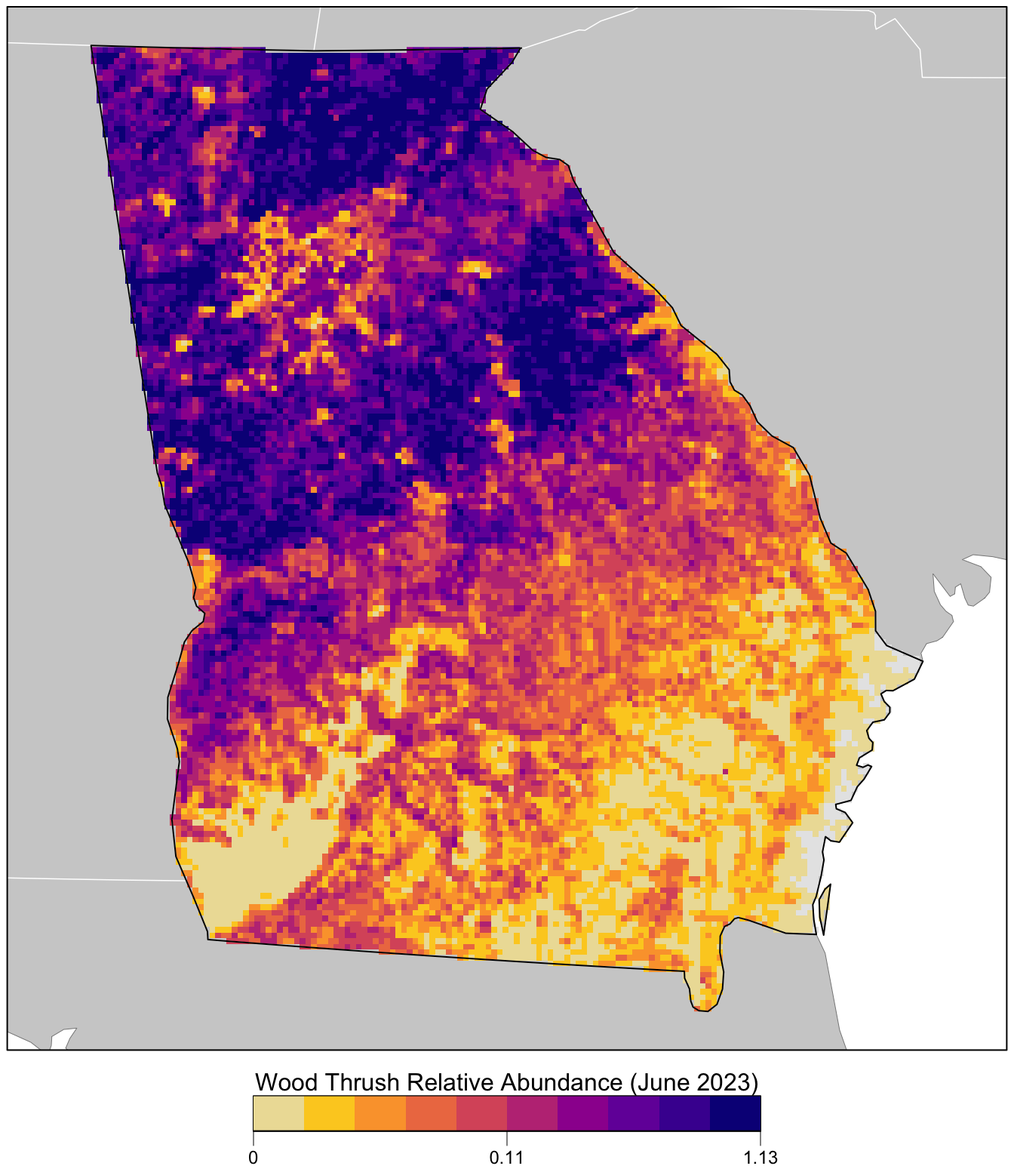
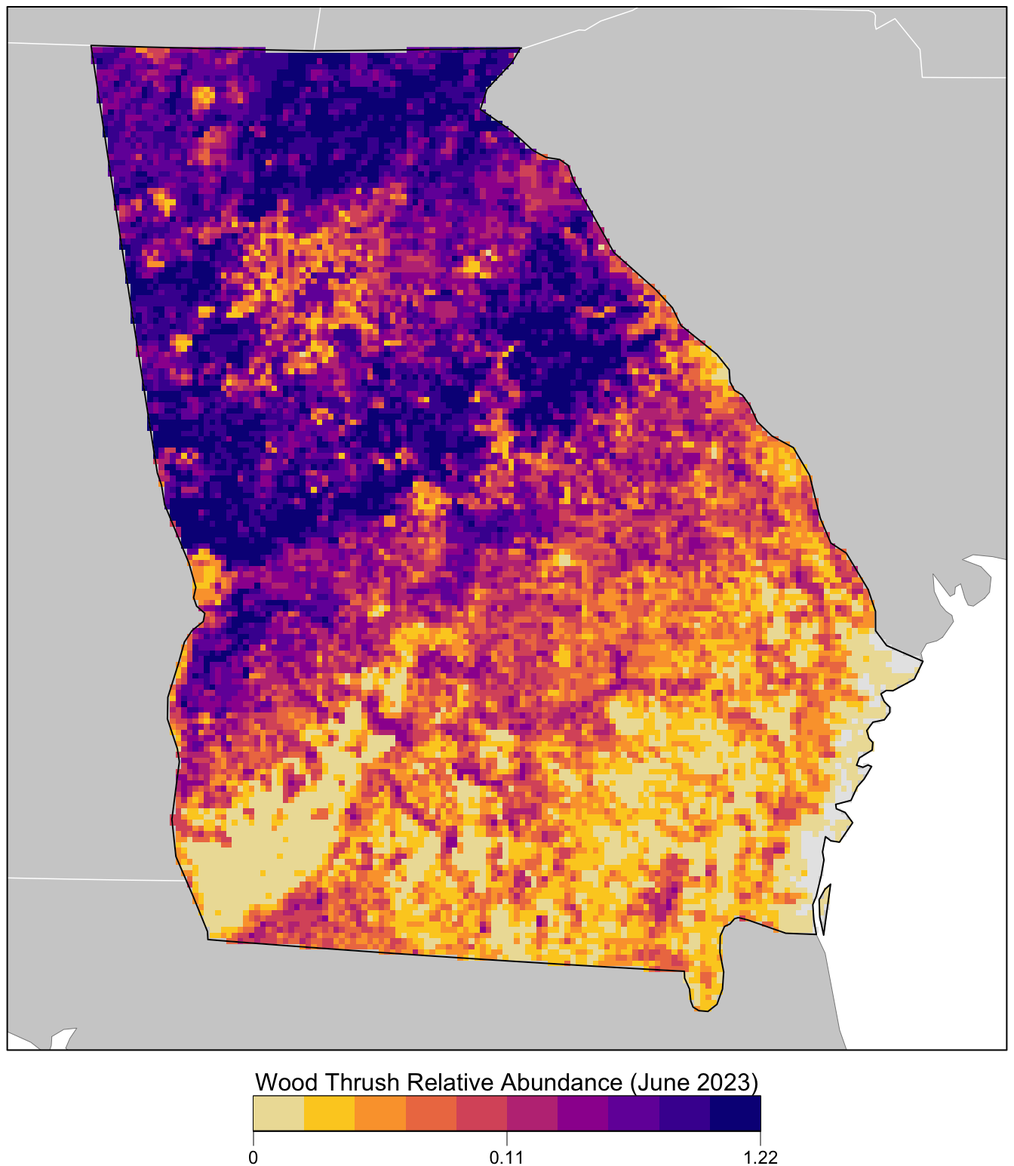
don't use `pi` as a variable name

Changed region(s): [[0.0938, 0.0311, 0.875, 0.8699], [0.75, 0.9942, 0.7812, 1.0]]

diff --git a/docs/encounter.html b/docs/encounter.html
@@ -395,14 +395,14 @@ Solution
 <span id="cb4-11"><a href="#cb4-11" aria-hidden="true" tabindex="-1"></a></span>
 <span id="cb4-12"><a href="#cb4-12" aria-hidden="true" tabindex="-1"></a><span class="co"># after sampling</span></span>
 <span id="cb4-13"><a href="#cb4-13" aria-hidden="true" tabindex="-1"></a><span class="fu">nrow</span>(checklists_ss)</span>
-<span id="cb4-14"><a href="#cb4-14" aria-hidden="true" tabindex="-1"></a><span class="co">#&gt; [1] 20707</span></span>
+<span id="cb4-14"><a href="#cb4-14" aria-hidden="true" tabindex="-1"></a><span class="co">#&gt; [1] 20642</span></span>
 <span id="cb4-15"><a href="#cb4-15" aria-hidden="true" tabindex="-1"></a><span class="fu">count</span>(checklists_ss, species_observed) <span class="sc">|&gt;</span> </span>
 <span id="cb4-16"><a href="#cb4-16" aria-hidden="true" tabindex="-1"></a>  <span class="fu">mutate</span>(<span class="at">percent =</span> n <span class="sc">/</span> <span class="fu">sum</span>(n))</span>
 <span id="cb4-17"><a href="#cb4-17" aria-hidden="true" tabindex="-1"></a><span class="co">#&gt; # A tibble: 2 × 3</span></span>
 <span id="cb4-18"><a href="#cb4-18" aria-hidden="true" tabindex="-1"></a><span class="co">#&gt;   species_observed     n percent</span></span>
 <span id="cb4-19"><a href="#cb4-19" aria-hidden="true" tabindex="-1"></a><span class="co">#&gt;   &lt;lgl&gt;            &lt;int&gt;   &lt;dbl&gt;</span></span>
-<span id="cb4-20"><a href="#cb4-20" aria-hidden="true" tabindex="-1"></a><span class="co">#&gt; 1 FALSE            17808   0.860</span></span>
-<span id="cb4-21"><a href="#cb4-21" aria-hidden="true" tabindex="-1"></a><span class="co">#&gt; 2 TRUE              2899   0.140</span></span></code><button title="Copy to Clipboard" class="code-copy-button"><i class="bi"></i></button></pre></div>
+<span id="cb4-20"><a href="#cb4-20" aria-hidden="true" tabindex="-1"></a><span class="co">#&gt; 1 FALSE            17744   0.860</span></span>
+<span id="cb4-21"><a href="#cb4-21" aria-hidden="true" tabindex="-1"></a><span class="co">#&gt; 2 TRUE              2898   0.140</span></span></code><button title="Copy to Clipboard" class="code-copy-button"><i class="bi"></i></button></pre></div>
 </div>
 </div>
 </div>
@@ -570,7 +570,7 @@ Solution
 <span id="cb11-8"><a href="#cb11-8" aria-hidden="true" tabindex="-1"></a><span class="co"># identify best threshold</span></span>
 <span id="cb11-9"><a href="#cb11-9" aria-hidden="true" tabindex="-1"></a>mcc_f1_summary <span class="ot">&lt;-</span> <span class="fu">summary</span>(mcc_f1)</span>
 <span id="cb11-10"><a href="#cb11-10" aria-hidden="true" tabindex="-1"></a><span class="co">#&gt;  mccf1_metric best_threshold</span></span>
-<span id="cb11-11"><a href="#cb11-11" aria-hidden="true" tabindex="-1"></a><span class="co">#&gt;          0.39          0.526</span></span>
+<span id="cb11-11"><a href="#cb11-11" aria-hidden="true" tabindex="-1"></a><span class="co">#&gt;         0.399          0.508</span></span>
 <span id="cb11-12"><a href="#cb11-12" aria-hidden="true" tabindex="-1"></a>threshold <span class="ot">&lt;-</span> mcc_f1_summary<span class="sc">$</span>best_threshold[<span class="dv">1</span>]</span></code><button title="Copy to Clipboard" class="code-copy-button"><i class="bi"></i></button></pre></div>
 </div>
 <div class="callout callout-style-default callout-tip callout-titled">
@@ -658,27 +658,27 @@ Tip
 <tbody>
 <tr class="odd">
 <td style="text-align: left;">mse</td>
-<td style="text-align: right;">0.084</td>
+<td style="text-align: right;">0.086</td>
 </tr>
 <tr class="even">
 <td style="text-align: left;">sensitivity</td>
-<td style="text-align: right;">0.673</td>
+<td style="text-align: right;">0.700</td>
 </tr>
 <tr class="odd">
 <td style="text-align: left;">specificity</td>
-<td style="text-align: right;">0.825</td>
+<td style="text-align: right;">0.804</td>
 </tr>
 <tr class="even">
 <td style="text-align: left;">pr_auc</td>
-<td style="text-align: right;">0.296</td>
+<td style="text-align: right;">0.291</td>
 </tr>
 <tr class="odd">
 <td style="text-align: left;">mcc</td>
-<td style="text-align: right;">0.385</td>
+<td style="text-align: right;">0.380</td>
 </tr>
 <tr class="even">
 <td style="text-align: left;">f1</td>
-<td style="text-align: right;">0.461</td>
+<td style="text-align: right;">0.454</td>
 </tr>
 </tbody>
 </table>
@@ -695,21 +695,22 @@ Tip
 <p>During the process of training a random forests model, some variables are removed at each node of the trees that make up the random forests. <strong>Predictor importance</strong> is based on the mean decrease in accuracy of the model when a given predictor is not used. It’s technically an average <a href="https://en.wikipedia.org/wiki/Gini_coefficient">Gini index</a>, but essentially larger values indicate that a predictor is more important to the model.</p>
 <div class="cell" data-layout-align="center">
 <div class="sourceCode cell-code" id="cb13"><pre class="sourceCode r code-with-copy"><code class="sourceCode r"><span id="cb13-1"><a href="#cb13-1" aria-hidden="true" tabindex="-1"></a><span class="co"># extract predictor importance from the random forest model object</span></span>
-<span id="cb13-2"><a href="#cb13-2" aria-hidden="true" tabindex="-1"></a>pi <span class="ot">&lt;-</span> er_model<span class="sc">$</span>variable.importance</span>
-<span id="cb13-3"><a href="#cb13-3" aria-hidden="true" tabindex="-1"></a>pi <span class="ot">&lt;-</span> <span class="fu">data.frame</span>(<span class="at">predictor =</span> <span class="fu">names</span>(pi), <span class="at">importance =</span> pi) <span class="sc">|&gt;</span> </span>
-<span id="cb13-4"><a href="#cb13-4" aria-hidden="true" tabindex="-1"></a>  <span class="fu">arrange</span>(<span class="fu">desc</span>(importance))</span>
-<span id="cb13-5"><a href="#cb13-5" aria-hidden="true" tabindex="-1"></a><span class="co"># plot importance of top 20 predictors</span></span>
-<span id="cb13-6"><a href="#cb13-6" aria-hidden="true" tabindex="-1"></a><span class="fu">ggplot</span>(<span class="fu">head</span>(pi, <span class="dv">20</span>)) <span class="sc">+</span> </span>
-<span id="cb13-7"><a href="#cb13-7" aria-hidden="true" tabindex="-1"></a>  <span class="fu">aes</span>(<span class="at">x =</span> <span class="fu">reorder</span>(predictor, importance), <span class="at">y =</span> importance) <span class="sc">+</span></span>
-<span id="cb13-8"><a href="#cb13-8" aria-hidden="true" tabindex="-1"></a>  <span class="fu">geom_col</span>() <span class="sc">+</span></span>
-<span id="cb13-9"><a href="#cb13-9" aria-hidden="true" tabindex="-1"></a>  <span class="fu">geom_hline</span>(<span class="at">yintercept =</span> <span class="dv">0</span>, <span class="at">linewidth =</span> <span class="dv">2</span>, <span class="at">colour =</span> <span class="st">"#555555"</span>) <span class="sc">+</span></span>
-<span id="cb13-10"><a href="#cb13-10" aria-hidden="true" tabindex="-1"></a>  <span class="fu">scale_y_continuous</span>(<span class="at">expand =</span> <span class="fu">c</span>(<span class="dv">0</span>, <span class="dv">0</span>)) <span class="sc">+</span></span>
-<span id="cb13-11"><a href="#cb13-11" aria-hidden="true" tabindex="-1"></a>  <span class="fu">coord_flip</span>() <span class="sc">+</span></span>
-<span id="cb13-12"><a href="#cb13-12" aria-hidden="true" tabindex="-1"></a>  <span class="fu">labs</span>(<span class="at">x =</span> <span class="cn">NULL</span>, </span>
-<span id="cb13-13"><a href="#cb13-13" aria-hidden="true" tabindex="-1"></a>       <span class="at">y =</span> <span class="st">"Predictor Importance (Gini Index)"</span>) <span class="sc">+</span></span>
-<span id="cb13-14"><a href="#cb13-14" aria-hidden="true" tabindex="-1"></a>  <span class="fu">theme_minimal</span>() <span class="sc">+</span></span>
-<span id="cb13-15"><a href="#cb13-15" aria-hidden="true" tabindex="-1"></a>  <span class="fu">theme</span>(<span class="at">panel.grid =</span> <span class="fu">element_blank</span>(),</span>
-<span id="cb13-16"><a href="#cb13-16" aria-hidden="true" tabindex="-1"></a>        <span class="at">panel.grid.major.x =</span> <span class="fu">element_line</span>(<span class="at">colour =</span> <span class="st">"#cccccc"</span>, <span class="at">linewidth =</span> <span class="fl">0.5</span>))</span></code><button title="Copy to Clipboard" class="code-copy-button"><i class="bi"></i></button></pre></div>
+<span id="cb13-2"><a href="#cb13-2" aria-hidden="true" tabindex="-1"></a>pred_imp <span class="ot">&lt;-</span> er_model<span class="sc">$</span>variable.importance</span>
+<span id="cb13-3"><a href="#cb13-3" aria-hidden="true" tabindex="-1"></a>pred_imp <span class="ot">&lt;-</span> <span class="fu">data.frame</span>(<span class="at">predictor =</span> <span class="fu">names</span>(pred_imp), </span>
+<span id="cb13-4"><a href="#cb13-4" aria-hidden="true" tabindex="-1"></a>                       <span class="at">importance =</span> pred_imp) <span class="sc">|&gt;</span> </span>
+<span id="cb13-5"><a href="#cb13-5" aria-hidden="true" tabindex="-1"></a>  <span class="fu">arrange</span>(<span class="fu">desc</span>(importance))</span>
+<span id="cb13-6"><a href="#cb13-6" aria-hidden="true" tabindex="-1"></a><span class="co"># plot importance of top 20 predictors</span></span>
+<span id="cb13-7"><a href="#cb13-7" aria-hidden="true" tabindex="-1"></a><span class="fu">ggplot</span>(<span class="fu">head</span>(pred_imp, <span class="dv">20</span>)) <span class="sc">+</span> </span>
+<span id="cb13-8"><a href="#cb13-8" aria-hidden="true" tabindex="-1"></a>  <span class="fu">aes</span>(<span class="at">x =</span> <span class="fu">reorder</span>(predictor, importance), <span class="at">y =</span> importance) <span class="sc">+</span></span>
+<span id="cb13-9"><a href="#cb13-9" aria-hidden="true" tabindex="-1"></a>  <span class="fu">geom_col</span>() <span class="sc">+</span></span>
+<span id="cb13-10"><a href="#cb13-10" aria-hidden="true" tabindex="-1"></a>  <span class="fu">geom_hline</span>(<span class="at">yintercept =</span> <span class="dv">0</span>, <span class="at">linewidth =</span> <span class="dv">2</span>, <span class="at">colour =</span> <span class="st">"#555555"</span>) <span class="sc">+</span></span>
+<span id="cb13-11"><a href="#cb13-11" aria-hidden="true" tabindex="-1"></a>  <span class="fu">scale_y_continuous</span>(<span class="at">expand =</span> <span class="fu">c</span>(<span class="dv">0</span>, <span class="dv">0</span>)) <span class="sc">+</span></span>
+<span id="cb13-12"><a href="#cb13-12" aria-hidden="true" tabindex="-1"></a>  <span class="fu">coord_flip</span>() <span class="sc">+</span></span>
+<span id="cb13-13"><a href="#cb13-13" aria-hidden="true" tabindex="-1"></a>  <span class="fu">labs</span>(<span class="at">x =</span> <span class="cn">NULL</span>, </span>
+<span id="cb13-14"><a href="#cb13-14" aria-hidden="true" tabindex="-1"></a>       <span class="at">y =</span> <span class="st">"Predictor Importance (Gini Index)"</span>) <span class="sc">+</span></span>
+<span id="cb13-15"><a href="#cb13-15" aria-hidden="true" tabindex="-1"></a>  <span class="fu">theme_minimal</span>() <span class="sc">+</span></span>
+<span id="cb13-16"><a href="#cb13-16" aria-hidden="true" tabindex="-1"></a>  <span class="fu">theme</span>(<span class="at">panel.grid =</span> <span class="fu">element_blank</span>(),</span>
+<span id="cb13-17"><a href="#cb13-17" aria-hidden="true" tabindex="-1"></a>        <span class="at">panel.grid.major.x =</span> <span class="fu">element_line</span>(<span class="at">colour =</span> <span class="st">"#cccccc"</span>, <span class="at">linewidth =</span> <span class="fl">0.5</span>))</span></code><button title="Copy to Clipboard" class="code-copy-button"><i class="bi"></i></button></pre></div>
 <div class="cell-output-display">
 <div class="quarto-figure quarto-figure-center">
 <figure class="figure">
@@ -781,7 +782,7 @@ Tip
 <div class="cell" data-layout-align="center">
 <div class="sourceCode cell-code" id="cb15"><pre class="sourceCode r code-with-copy"><code class="sourceCode r"><span id="cb15-1"><a href="#cb15-1" aria-hidden="true" tabindex="-1"></a><span class="co"># calculate partial dependence for each of the top 6 predictors</span></span>
 <span id="cb15-2"><a href="#cb15-2" aria-hidden="true" tabindex="-1"></a>pd <span class="ot">&lt;-</span> <span class="cn">NULL</span></span>
-<span id="cb15-3"><a href="#cb15-3" aria-hidden="true" tabindex="-1"></a><span class="cf">for</span> (predictor <span class="cf">in</span> <span class="fu">head</span>(pi<span class="sc">$</span>predictor)) {</span>
+<span id="cb15-3"><a href="#cb15-3" aria-hidden="true" tabindex="-1"></a><span class="cf">for</span> (predictor <span class="cf">in</span> <span class="fu">head</span>(pred_imp<span class="sc">$</span>predictor)) {</span>
 <span id="cb15-4"><a href="#cb15-4" aria-hidden="true" tabindex="-1"></a>  pd <span class="ot">&lt;-</span> <span class="fu">calculate_pd</span>(predictor, </span>
 <span id="cb15-5"><a href="#cb15-5" aria-hidden="true" tabindex="-1"></a>                     <span class="at">er_model =</span> er_model, </span>
 <span id="cb15-6"><a href="#cb15-6" aria-hidden="true" tabindex="-1"></a>                     <span class="at">calibration_model =</span> calibration_model,</span>
@@ -792,12 +793,12 @@ Tip
 <span id="cb15-11"><a href="#cb15-11" aria-hidden="true" tabindex="-1"></a><span class="co">#&gt; # A tibble: 6 × 3</span></span>
 <span id="cb15-12"><a href="#cb15-12" aria-hidden="true" tabindex="-1"></a><span class="co">#&gt;   predictor                         x encounter_rate</span></span>
 <span id="cb15-13"><a href="#cb15-13" aria-hidden="true" tabindex="-1"></a><span class="co">#&gt;   &lt;chr&gt;                         &lt;dbl&gt;          &lt;dbl&gt;</span></span>
-<span id="cb15-14"><a href="#cb15-14" aria-hidden="true" tabindex="-1"></a><span class="co">#&gt; 1 pland_c04_deciduous_broadleaf  0            0.0998</span></span>
-<span id="cb15-15"><a href="#cb15-15" aria-hidden="true" tabindex="-1"></a><span class="co">#&gt; 2 pland_c04_deciduous_broadleaf  2.33         0.102 </span></span>
-<span id="cb15-16"><a href="#cb15-16" aria-hidden="true" tabindex="-1"></a><span class="co">#&gt; 3 pland_c04_deciduous_broadleaf  4.08         0.103 </span></span>
-<span id="cb15-17"><a href="#cb15-17" aria-hidden="true" tabindex="-1"></a><span class="co">#&gt; 4 pland_c04_deciduous_broadleaf  4.88         0.103 </span></span>
-<span id="cb15-18"><a href="#cb15-18" aria-hidden="true" tabindex="-1"></a><span class="co">#&gt; 5 pland_c04_deciduous_broadleaf  7.08         0.104 </span></span>
-<span id="cb15-19"><a href="#cb15-19" aria-hidden="true" tabindex="-1"></a><span class="co">#&gt; 6 pland_c04_deciduous_broadleaf  9.52         0.105</span></span>
+<span id="cb15-14"><a href="#cb15-14" aria-hidden="true" tabindex="-1"></a><span class="co">#&gt; 1 pland_c04_deciduous_broadleaf  0            0.0955</span></span>
+<span id="cb15-15"><a href="#cb15-15" aria-hidden="true" tabindex="-1"></a><span class="co">#&gt; 2 pland_c04_deciduous_broadleaf  2.33         0.0979</span></span>
+<span id="cb15-16"><a href="#cb15-16" aria-hidden="true" tabindex="-1"></a><span class="co">#&gt; 3 pland_c04_deciduous_broadleaf  2.56         0.0999</span></span>
+<span id="cb15-17"><a href="#cb15-17" aria-hidden="true" tabindex="-1"></a><span class="co">#&gt; 4 pland_c04_deciduous_broadleaf  4.88         0.101 </span></span>
+<span id="cb15-18"><a href="#cb15-18" aria-hidden="true" tabindex="-1"></a><span class="co">#&gt; 5 pland_c04_deciduous_broadleaf  6.98         0.102 </span></span>
+<span id="cb15-19"><a href="#cb15-19" aria-hidden="true" tabindex="-1"></a><span class="co">#&gt; 6 pland_c04_deciduous_broadleaf  9.52         0.102</span></span>
 <span id="cb15-20"><a href="#cb15-20" aria-hidden="true" tabindex="-1"></a></span>
 <span id="cb15-21"><a href="#cb15-21" aria-hidden="true" tabindex="-1"></a><span class="co"># plot partial dependence</span></span>
 <span id="cb15-22"><a href="#cb15-22" aria-hidden="true" tabindex="-1"></a><span class="fu">ggplot</span>(pd) <span class="sc">+</span></span>
@@ -1003,7 +1004,7 @@ Solution
 <span id="cb21-13"><a href="#cb21-13" aria-hidden="true" tabindex="-1"></a><span class="co">#&gt; source(s)   : memory</span></span>
 <span id="cb21-14"><a href="#cb21-14" aria-hidden="true" tabindex="-1"></a><span class="co">#&gt; names       : in_range, encounter_rate </span></span>
 <span id="cb21-15"><a href="#cb21-15" aria-hidden="true" tabindex="-1"></a><span class="co">#&gt; min values  :        0,          0.000 </span></span>
-<span id="cb21-16"><a href="#cb21-16" aria-hidden="true" tabindex="-1"></a><span class="co">#&gt; max values  :        1,          0.685</span></span></code><button title="Copy to Clipboard" class="code-copy-button"><i class="bi"></i></button></pre></div>
+<span id="cb21-16"><a href="#cb21-16" aria-hidden="true" tabindex="-1"></a><span class="co">#&gt; max values  :        1,          0.693</span></span></code><button title="Copy to Clipboard" class="code-copy-button"><i class="bi"></i></button></pre></div>
 </div>
 </section>
 </section>

diff --git a/docs/intro.html b/docs/intro.html
@@ -456,14 +456,14 @@ Solution
 <span id="cb6-2"><a href="#cb6-2" aria-hidden="true" tabindex="-1"></a><span class="co">#&gt; ─ Session info ───────────────────────────────────────────────────────────────</span></span>
 <span id="cb6-3"><a href="#cb6-3" aria-hidden="true" tabindex="-1"></a><span class="co">#&gt;  setting  value</span></span>
 <span id="cb6-4"><a href="#cb6-4" aria-hidden="true" tabindex="-1"></a><span class="co">#&gt;  version  R version 4.3.2 (2023-10-31)</span></span>
-<span id="cb6-5"><a href="#cb6-5" aria-hidden="true" tabindex="-1"></a><span class="co">#&gt;  os       macOS Sonoma 14.3.1</span></span>
+<span id="cb6-5"><a href="#cb6-5" aria-hidden="true" tabindex="-1"></a><span class="co">#&gt;  os       macOS Sonoma 14.4</span></span>
 <span id="cb6-6"><a href="#cb6-6" aria-hidden="true" tabindex="-1"></a><span class="co">#&gt;  system   x86_64, darwin20</span></span>
 <span id="cb6-7"><a href="#cb6-7" aria-hidden="true" tabindex="-1"></a><span class="co">#&gt;  ui       X11</span></span>
 <span id="cb6-8"><a href="#cb6-8" aria-hidden="true" tabindex="-1"></a><span class="co">#&gt;  language (EN)</span></span>
 <span id="cb6-9"><a href="#cb6-9" aria-hidden="true" tabindex="-1"></a><span class="co">#&gt;  collate  en_US.UTF-8</span></span>
 <span id="cb6-10"><a href="#cb6-10" aria-hidden="true" tabindex="-1"></a><span class="co">#&gt;  ctype    en_US.UTF-8</span></span>
 <span id="cb6-11"><a href="#cb6-11" aria-hidden="true" tabindex="-1"></a><span class="co">#&gt;  tz       America/Los_Angeles</span></span>
-<span id="cb6-12"><a href="#cb6-12" aria-hidden="true" tabindex="-1"></a><span class="co">#&gt;  date     2024-02-21</span></span>
+<span id="cb6-12"><a href="#cb6-12" aria-hidden="true" tabindex="-1"></a><span class="co">#&gt;  date     2024-03-22</span></span>
 <span id="cb6-13"><a href="#cb6-13" aria-hidden="true" tabindex="-1"></a><span class="co">#&gt;  pandoc   3.1.1 @ /Applications/RStudio.app/Contents/Resources/app/quarto/bin/tools/ (via rmarkdown)</span></span>
 <span id="cb6-14"><a href="#cb6-14" aria-hidden="true" tabindex="-1"></a><span class="co">#&gt; </span></span>
 <span id="cb6-15"><a href="#cb6-15" aria-hidden="true" tabindex="-1"></a><span class="co">#&gt; ─ Packages ───────────────────────────────────────────────────────────────────</span></span>
@@ -482,7 +482,7 @@ Solution
 <span id="cb6-28"><a href="#cb6-28" aria-hidden="true" tabindex="-1"></a><span class="co">#&gt;  dotCall64          1.1-1    2023-11-28 [2] CRAN (R 4.3.0)</span></span>
 <span id="cb6-29"><a href="#cb6-29" aria-hidden="true" tabindex="-1"></a><span class="co">#&gt;  dplyr            * 1.1.4    2023-11-17 [1] CRAN (R 4.3.0)</span></span>
 <span id="cb6-30"><a href="#cb6-30" aria-hidden="true" tabindex="-1"></a><span class="co">#&gt;  e1071              1.7-14   2023-12-06 [1] CRAN (R 4.3.0)</span></span>
-<span id="cb6-31"><a href="#cb6-31" aria-hidden="true" tabindex="-1"></a><span class="co">#&gt;  ebirdst          * 3.2022.1 2023-12-08 [1] CRAN (R 4.3.0)</span></span>
+<span id="cb6-31"><a href="#cb6-31" aria-hidden="true" tabindex="-1"></a><span class="co">#&gt;  ebirdst          * 3.2022.3 2024-03-05 [1] CRAN (R 4.3.2)</span></span>
 <span id="cb6-32"><a href="#cb6-32" aria-hidden="true" tabindex="-1"></a><span class="co">#&gt;  ellipsis           0.3.2    2021-04-29 [1] CRAN (R 4.3.0)</span></span>
 <span id="cb6-33"><a href="#cb6-33" aria-hidden="true" tabindex="-1"></a><span class="co">#&gt;  evaluate           0.23     2023-11-01 [1] CRAN (R 4.3.0)</span></span>
 <span id="cb6-34"><a href="#cb6-34" aria-hidden="true" tabindex="-1"></a><span class="co">#&gt;  exactextractr    * 0.10.0   2023-09-20 [2] CRAN (R 4.3.0)</span></span>
@@ -491,7 +491,7 @@ Solution
 <span id="cb6-37"><a href="#cb6-37" aria-hidden="true" tabindex="-1"></a><span class="co">#&gt;  fields           * 15.2     2023-08-17 [2] CRAN (R 4.3.0)</span></span>
 <span id="cb6-38"><a href="#cb6-38" aria-hidden="true" tabindex="-1"></a><span class="co">#&gt;  fs                 1.6.3    2023-07-20 [1] CRAN (R 4.3.0)</span></span>
 <span id="cb6-39"><a href="#cb6-39" aria-hidden="true" tabindex="-1"></a><span class="co">#&gt;  generics           0.1.3    2022-07-05 [1] CRAN (R 4.3.0)</span></span>
-<span id="cb6-40"><a href="#cb6-40" aria-hidden="true" tabindex="-1"></a><span class="co">#&gt;  ggplot2          * 3.4.4    2023-10-12 [1] CRAN (R 4.3.0)</span></span>
+<span id="cb6-40"><a href="#cb6-40" aria-hidden="true" tabindex="-1"></a><span class="co">#&gt;  ggplot2          * 3.5.0    2024-02-23 [1] CRAN (R 4.3.2)</span></span>
 <span id="cb6-41"><a href="#cb6-41" aria-hidden="true" tabindex="-1"></a><span class="co">#&gt;  glue               1.7.0    2024-01-09 [1] CRAN (R 4.3.0)</span></span>
 <span id="cb6-42"><a href="#cb6-42" aria-hidden="true" tabindex="-1"></a><span class="co">#&gt;  gridExtra        * 2.3      2017-09-09 [2] CRAN (R 4.3.0)</span></span>
 <span id="cb6-43"><a href="#cb6-43" aria-hidden="true" tabindex="-1"></a><span class="co">#&gt;  gtable             0.3.4    2023-08-21 [1] CRAN (R 4.3.0)</span></span>

diff --git a/docs/abundance.html b/docs/abundance.html
@@ -354,7 +354,7 @@ gtag('config', 'G-0QV88WCBNB', { 'anonymize_ip': true});
 <span id="cb4-22"><a href="#cb4-22" aria-hidden="true" tabindex="-1"></a>                          <span class="at">gamma =</span> <span class="dv">2</span>,</span>
 <span id="cb4-23"><a href="#cb4-23" aria-hidden="true" tabindex="-1"></a>                          <span class="at">data =</span> obs_pred)</span>
 <span id="cb4-24"><a href="#cb4-24" aria-hidden="true" tabindex="-1"></a><span class="co">#&gt;  mccf1_metric best_threshold</span></span>
-<span id="cb4-25"><a href="#cb4-25" aria-hidden="true" tabindex="-1"></a><span class="co">#&gt;           0.4          0.532</span></span></code><button title="Copy to Clipboard" class="code-copy-button"><i class="bi"></i></button></pre></div>
+<span id="cb4-25"><a href="#cb4-25" aria-hidden="true" tabindex="-1"></a><span class="co">#&gt;         0.397          0.585</span></span></code><button title="Copy to Clipboard" class="code-copy-button"><i class="bi"></i></button></pre></div>
 </div>
 </section>
 <section id="sec-abundance-hurdle-count" class="level3" data-number="5.2.2">
@@ -470,19 +470,19 @@ gtag('config', 'G-0QV88WCBNB', { 'anonymize_ip': true});
 <tbody>
 <tr class="odd">
 <td style="text-align: left;">count_spearman</td>
-<td style="text-align: right;">0.250</td>
+<td style="text-align: right;">0.225</td>
 </tr>
 <tr class="even">
 <td style="text-align: left;">log_count_pearson</td>
-<td style="text-align: right;">0.333</td>
+<td style="text-align: right;">0.290</td>
 </tr>
 <tr class="odd">
 <td style="text-align: left;">abundance_spearman</td>
-<td style="text-align: right;">0.326</td>
+<td style="text-align: right;">0.309</td>
 </tr>
 <tr class="even">
 <td style="text-align: left;">log_abundance_pearson</td>
-<td style="text-align: right;">0.403</td>
+<td style="text-align: right;">0.405</td>
 </tr>
 </tbody>
 </table>
@@ -557,8 +557,8 @@ gtag('config', 'G-0QV88WCBNB', { 'anonymize_ip': true});
 <span id="cb12-17"><a href="#cb12-17" aria-hidden="true" tabindex="-1"></a><span class="co">#&gt; coord. ref. : +proj=laea +lat_0=33.2 +lon_0=-83.7 +x_0=0 +y_0=0 +datum=WGS84 +units=m +no_defs </span></span>
 <span id="cb12-18"><a href="#cb12-18" aria-hidden="true" tabindex="-1"></a><span class="co">#&gt; source(s)   : memory</span></span>
 <span id="cb12-19"><a href="#cb12-19" aria-hidden="true" tabindex="-1"></a><span class="co">#&gt; names       : in_range, encounter_rate, count, abundance </span></span>
-<span id="cb12-20"><a href="#cb12-20" aria-hidden="true" tabindex="-1"></a><span class="co">#&gt; min values  :        0,          0.000, 0.136,      0.00 </span></span>
-<span id="cb12-21"><a href="#cb12-21" aria-hidden="true" tabindex="-1"></a><span class="co">#&gt; max values  :        1,          0.683, 1.926,      1.13</span></span></code><button title="Copy to Clipboard" class="code-copy-button"><i class="bi"></i></button></pre></div>
+<span id="cb12-20"><a href="#cb12-20" aria-hidden="true" tabindex="-1"></a><span class="co">#&gt; min values  :        0,          0.000, 0.133,      0.00 </span></span>
+<span id="cb12-21"><a href="#cb12-21" aria-hidden="true" tabindex="-1"></a><span class="co">#&gt; max values  :        1,          0.715, 1.944,      1.22</span></span></code><button title="Copy to Clipboard" class="code-copy-button"><i class="bi"></i></button></pre></div>
 </div>
 <p>Finally we’ll produce a map of relative abundance. The values shown on this map are the expected number of Wood Thrush seen by an average eBirder conducting a 2 km, 1 hour traveling count starting at about 6:37AM on June 15, 2023. Since detectability is not perfect, we expect true Wood Thrush abundance to be higher than these values, but without estimating the detection rate directly it’s difficult to say how much higher.</p>
 <p>Prior to mapping the relative abundance, we’ll multiple by the <code>in_range</code> layer, which will produce a map showing zero relative abundance where the model predicts that Wood Thrush does not occur.</p>
